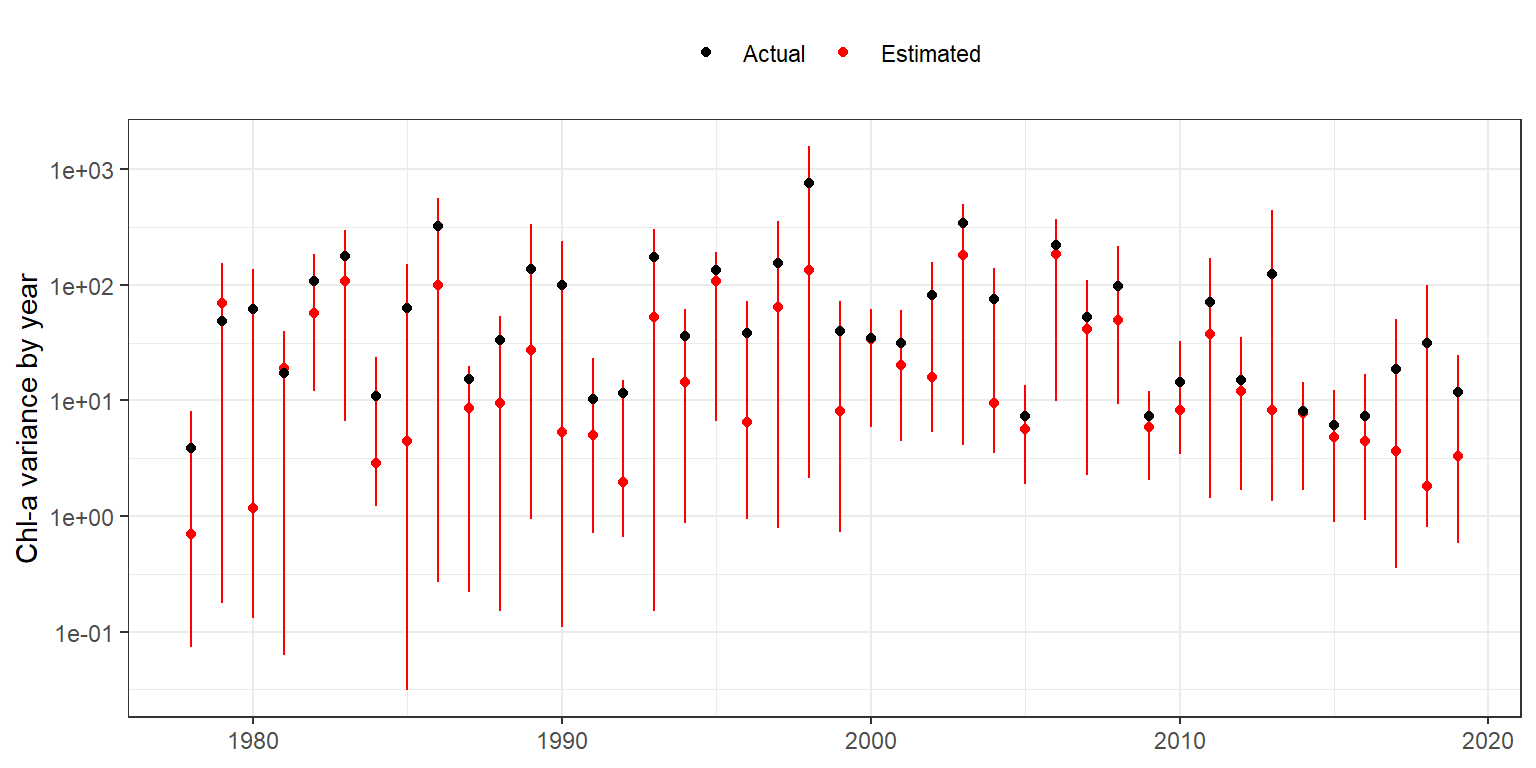
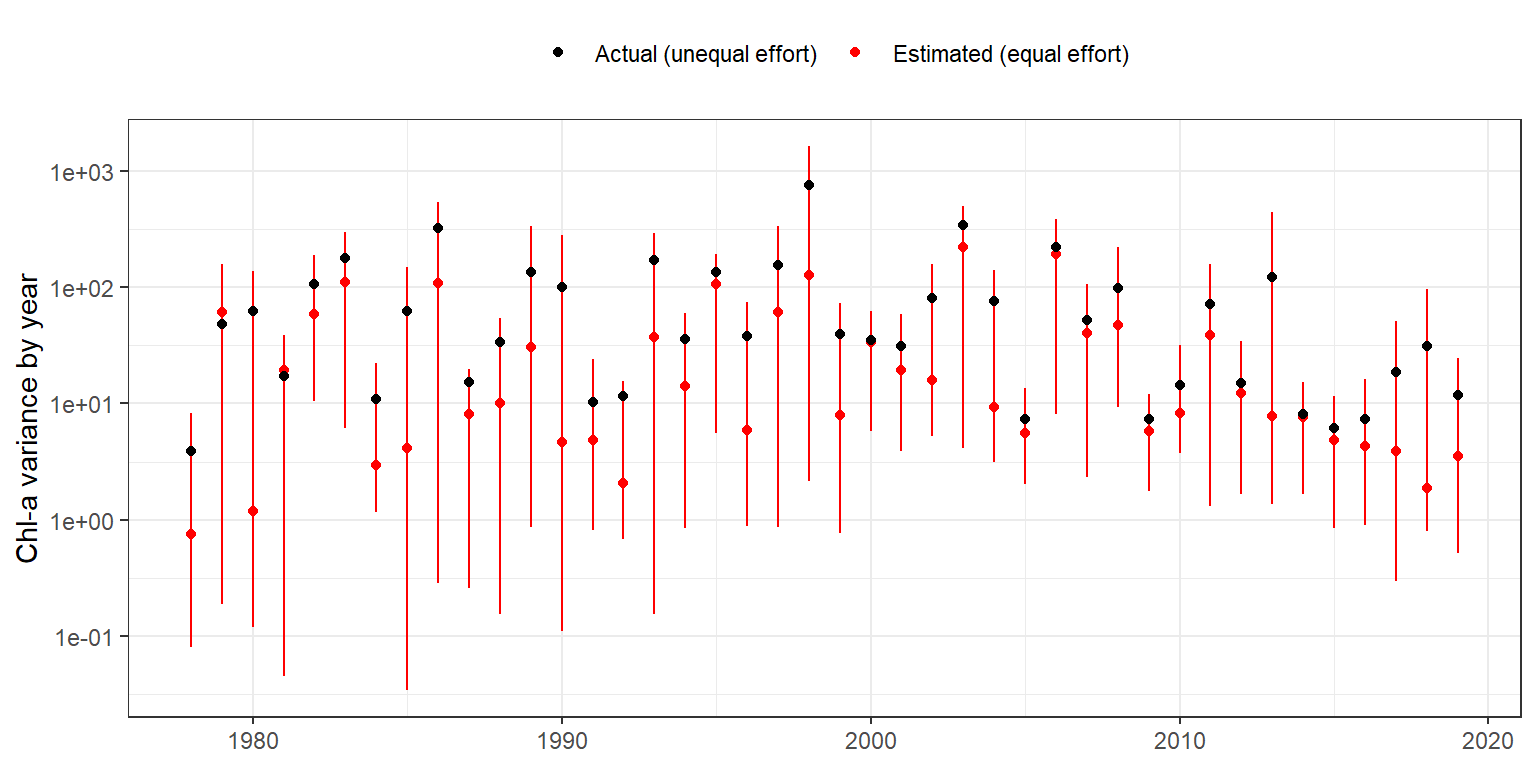
text edits and fix to source code link in sampling-effects2

diff --git a/docs/sampling-effects2.html b/docs/sampling-effects2.html
@@ -7,7 +7,7 @@
 <meta name="viewport" content="width=device-width, initial-scale=1.0, user-scalable=yes">
 
 <meta name="author" content="Dr.&nbsp;Marcus Beck, mbeck@tbep.org">
-<meta name="dcterms.date" content="2022-08-16">
+<meta name="dcterms.date" content="2022-08-22">
 
 <title>Exploratory analysis of sampling effect on trend estimates in South Bay, Pt 2</title>
 <style>
@@ -108,7 +108,7 @@ code span.wa { color: #60a0b0; font-weight: bold; font-style: italic; } /* Warni
 
 <header id="title-block-header" class="quarto-title-block default">
 <div class="quarto-title">
-<div class="quarto-title-block"><div><h1 class="title">Exploratory analysis of sampling effect on trend estimates in South Bay, Pt 2</h1><button type="button" class="btn code-tools-button" id="quarto-code-tools-source" data-quarto-source-url="https://github.com/tbep-tech/wqtrends-synthesis/docs/sampling-effects2.qmd"><i class="bi"></i> Code</button></div></div>
+<div class="quarto-title-block"><div><h1 class="title">Exploratory analysis of sampling effect on trend estimates in South Bay, Pt 2</h1><button type="button" class="btn code-tools-button" id="quarto-code-tools-source" data-quarto-source-url="https://github.com/tbep-tech/wqtrends-synthesis/blob/main/docs/sampling-effects2.qmd"><i class="bi"></i> Code</button></div></div>
 </div>
 
 
@@ -125,7 +125,7 @@ code span.wa { color: #60a0b0; font-weight: bold; font-style: italic; } /* Warni
     <div>
     <div class="quarto-title-meta-heading">Published</div>
     <div class="quarto-title-meta-contents">
-      <p class="date">August 16, 2022</p>
+      <p class="date">August 22, 2022</p>
     </div>
   </div>
     
@@ -136,12 +136,12 @@ code span.wa { color: #60a0b0; font-weight: bold; font-style: italic; } /* Warni
 
 <section id="overview" class="level1">
 <h1>Overview</h1>
-<p>This document evaluates the effect of down-sampling a long-term chlorophyll time series at station 30 in South Bay of the San Francisco Estuary. The methods herein build upon those in the previous analysis of sampling effects described <a href="https://tbep-tech.github.io/wqtrends-synthesis/sampling-effects">here</a>. The goal is to create a “large” number of down-sampled datasets to assess the effect on chloropyll variation. This differs from the previous analysis in two ways:</p>
+<p>This document evaluates the effect of down-sampling a long-term chlorophyll time series at station 30 in South Bay of the San Francisco Estuary. The methods herein build upon those in the previous analysis of sampling effects described <a href="https://tbep-tech.github.io/wqtrends-synthesis/sampling-effects">here</a>. The goal is to create a “large” number of down-sampled datasets to assess the effect on chlorophyll variation given that varying effort has occurred throughout the time series. This differs from the previous analysis in two ways:</p>
 <ol type="1">
 <li>The previous analysis only evaluated five random down-sampled subsets, here we evaluate 1000.</li>
-<li>The previous anlaysis evalutaed changed in trend estimates as the the maxium chlorophyll peak using methods in the <a href="https://tbep-tech.github.io/wqtrends/">wqtrends</a> package, here we only evaluate changes in chlorophyll variance,</li>
+<li>The previous analysis evaluated changes in trend estimates as the the maximum chlorophyll peak using methods in the <a href="https://tbep-tech.github.io/wqtrends/">wqtrends</a> package, here we only evaluate changes in chlorophyll variance.</li>
+<li>Only the down-sampling that evaluates equal effort between all months and years is used. The previous analysis also evaluated equal sampling between year groups, where effort still varied between month.</li>
 </ol>
-<p>Further, only the down-sampling that evaluates equal effort between all months and years is used.</p>
 </section>
 <section id="methods" class="level1">
 <h1>Methods</h1>
@@ -189,7 +189,7 @@ code span.wa { color: #60a0b0; font-weight: bold; font-style: italic; } /* Warni
 <span id="cb1-40"><a href="#cb1-40" aria-hidden="true" tabindex="-1"></a>    <span class="at">seas =</span> <span class="fu">factor</span>(seas, <span class="at">levels =</span> <span class="fu">c</span>(<span class="st">'Feb 1 - Apr 30'</span>, <span class="st">'Aug 1 - Oct 31'</span>))</span>
 <span id="cb1-41"><a href="#cb1-41" aria-hidden="true" tabindex="-1"></a>  )</span></code><button title="Copy to Clipboard" class="code-copy-button"><i class="bi"></i></button></pre></div>
 </div>
-<p>The down-sampling function is created.</p>
+<p>The down-sampling function is created for equal effort between months.</p>
 <div class="cell">
 <div class="sourceCode cell-code" id="cb2"><pre class="sourceCode r code-with-copy"><code class="sourceCode r"><span id="cb2-1"><a href="#cb2-1" aria-hidden="true" tabindex="-1"></a>downsamp_fun1 <span class="ot">&lt;-</span> <span class="cf">function</span>(datin){</span>
 <span id="cb2-2"><a href="#cb2-2" aria-hidden="true" tabindex="-1"></a>  </span>
@@ -215,7 +215,7 @@ code span.wa { color: #60a0b0; font-weight: bold; font-style: italic; } /* Warni
 <span id="cb2-22"><a href="#cb2-22" aria-hidden="true" tabindex="-1"></a>  </span>
 <span id="cb2-23"><a href="#cb2-23" aria-hidden="true" tabindex="-1"></a>}</span></code><button title="Copy to Clipboard" class="code-copy-button"><i class="bi"></i></button></pre></div>
 </div>
-<p>The down-sampled datasets are created.</p>
+<p>The down-sampled datasets are created, taking 1000 random datasets.</p>
 <div class="cell">
 <div class="sourceCode cell-code" id="cb3"><pre class="sourceCode r code-with-copy"><code class="sourceCode r"><span id="cb3-1"><a href="#cb3-1" aria-hidden="true" tabindex="-1"></a>rnds <span class="ot">&lt;-</span> <span class="fu">paste</span>(<span class="st">'Equal month'</span>, <span class="dv">1</span><span class="sc">:</span><span class="dv">1000</span>)</span>
 <span id="cb3-2"><a href="#cb3-2" aria-hidden="true" tabindex="-1"></a></span>
@@ -311,12 +311,12 @@ code span.wa { color: #60a0b0; font-weight: bold; font-style: italic; } /* Warni
 <pre><code># A tibble: 6 x 4
      yr  medvar   loest  hiest
   &lt;dbl&gt;   &lt;dbl&gt;   &lt;dbl&gt;  &lt;dbl&gt;
-1  1978   0.704  0.0730   8.09
-2  1979  69.0    0.177  153.  
-3  1980   1.17   0.132  137.  
-4  1981  19.1    0.0633  39.6 
-5  1982  57.4   11.9    185.  
-6  1983 108.     6.61   300.  </code></pre>
+1  1978   0.752  0.0797   8.35
+2  1979  61.4    0.19   157.  
+3  1980   1.18   0.119  136.  
+4  1981  19.2    0.0450  38.7 
+5  1982  58.1   10.4    187.  
+6  1983 110.     6.20   296.  </code></pre>
 </div>
 </div>
 <p>The same is done for the actual dataset for comparison.</p>
@@ -337,12 +337,12 @@ code span.wa { color: #60a0b0; font-weight: bold; font-style: italic; } /* Warni
 6  1983 176.  </code></pre>
 </div>
 </div>
-<p>Then the two can be compared to see how down-sampling effects the estimated variance compared to the actual dataset.</p>
+<p>Then the two can be compared to see how chlorophyll could potentially vary depending on sample design, i.e., what is the estimated variance considering equal sample effort across the time series relative to the actual variance with unequal sampling across the time series.</p>
 <div class="cell">
 <div class="sourceCode cell-code" id="cb11"><pre class="sourceCode r code-with-copy"><code class="sourceCode r"><span id="cb11-1"><a href="#cb11-1" aria-hidden="true" tabindex="-1"></a><span class="fu">ggplot</span>(dwnest, <span class="fu">aes</span>(<span class="at">x =</span> yr, <span class="at">y =</span> medvar, <span class="at">group =</span> yr)) <span class="sc">+</span> </span>
-<span id="cb11-2"><a href="#cb11-2" aria-hidden="true" tabindex="-1"></a>  <span class="fu">geom_point</span>(<span class="fu">aes</span>(<span class="at">col =</span> <span class="st">'Estimated'</span>)) <span class="sc">+</span></span>
-<span id="cb11-3"><a href="#cb11-3" aria-hidden="true" tabindex="-1"></a>  <span class="fu">geom_errorbar</span>(<span class="fu">aes</span>(<span class="at">ymin =</span> loest, <span class="at">ymax =</span> hiest, <span class="at">col =</span> <span class="st">'Estimated'</span>), <span class="at">width =</span> <span class="dv">0</span>) <span class="sc">+</span></span>
-<span id="cb11-4"><a href="#cb11-4" aria-hidden="true" tabindex="-1"></a>  <span class="fu">geom_point</span>(<span class="at">data =</span> actest, <span class="fu">aes</span>(<span class="at">y =</span> varchl, <span class="at">col =</span> <span class="st">'Actual'</span>)) <span class="sc">+</span></span>
+<span id="cb11-2"><a href="#cb11-2" aria-hidden="true" tabindex="-1"></a>  <span class="fu">geom_point</span>(<span class="fu">aes</span>(<span class="at">col =</span> <span class="st">'Estimated (equal effort)'</span>)) <span class="sc">+</span></span>
+<span id="cb11-3"><a href="#cb11-3" aria-hidden="true" tabindex="-1"></a>  <span class="fu">geom_errorbar</span>(<span class="fu">aes</span>(<span class="at">ymin =</span> loest, <span class="at">ymax =</span> hiest, <span class="at">col =</span> <span class="st">'Estimated (equal effort)'</span>), <span class="at">width =</span> <span class="dv">0</span>) <span class="sc">+</span></span>
+<span id="cb11-4"><a href="#cb11-4" aria-hidden="true" tabindex="-1"></a>  <span class="fu">geom_point</span>(<span class="at">data =</span> actest, <span class="fu">aes</span>(<span class="at">y =</span> varchl, <span class="at">col =</span> <span class="st">'Actual (unequal effort)'</span>)) <span class="sc">+</span></span>
 <span id="cb11-5"><a href="#cb11-5" aria-hidden="true" tabindex="-1"></a>  <span class="fu">scale_color_manual</span>(<span class="at">values =</span> <span class="fu">c</span>(<span class="st">'black'</span>, <span class="st">'red'</span>)) <span class="sc">+</span></span>
 <span id="cb11-6"><a href="#cb11-6" aria-hidden="true" tabindex="-1"></a>  <span class="fu">scale_y_log10</span>() <span class="sc">+</span> </span>
 <span id="cb11-7"><a href="#cb11-7" aria-hidden="true" tabindex="-1"></a>  <span class="fu">guides</span>(<span class="at">linetype =</span> <span class="fu">guide_legend</span>(<span class="at">override.aes =</span> <span class="fu">list</span>(<span class="at">linetype =</span> <span class="dv">0</span>)), </span>
@@ -517,7 +517,7 @@ window.document.addEventListener("DOMContentLoaded", function (event) {
 });
 </script>
 </div> <!-- /content -->
-<script>var lightboxQuarto = GLightbox({"selector":".lightbox","descPosition":"bottom","closeEffect":"zoom","openEffect":"zoom","loop":true});</script>
+<script>var lightboxQuarto = GLightbox({"descPosition":"bottom","closeEffect":"zoom","loop":true,"selector":".lightbox","openEffect":"zoom"});</script>
 
 
 
